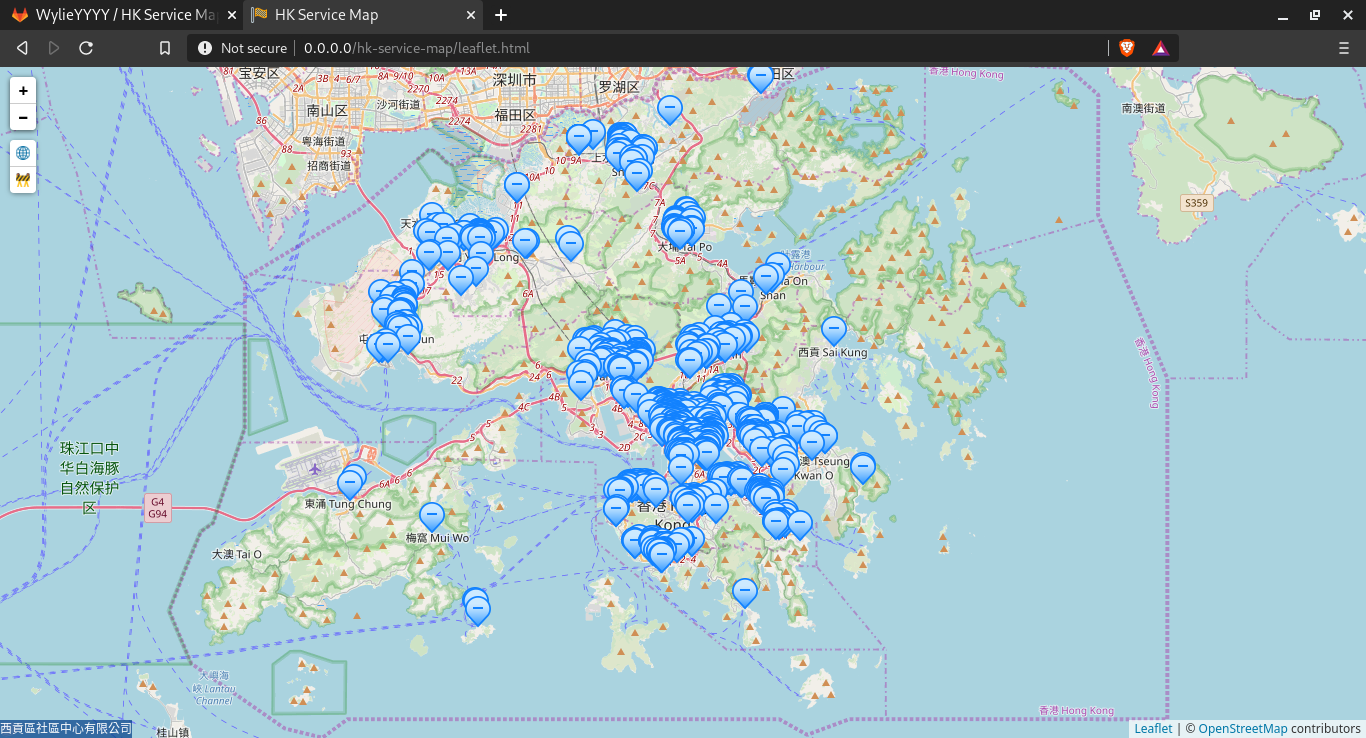
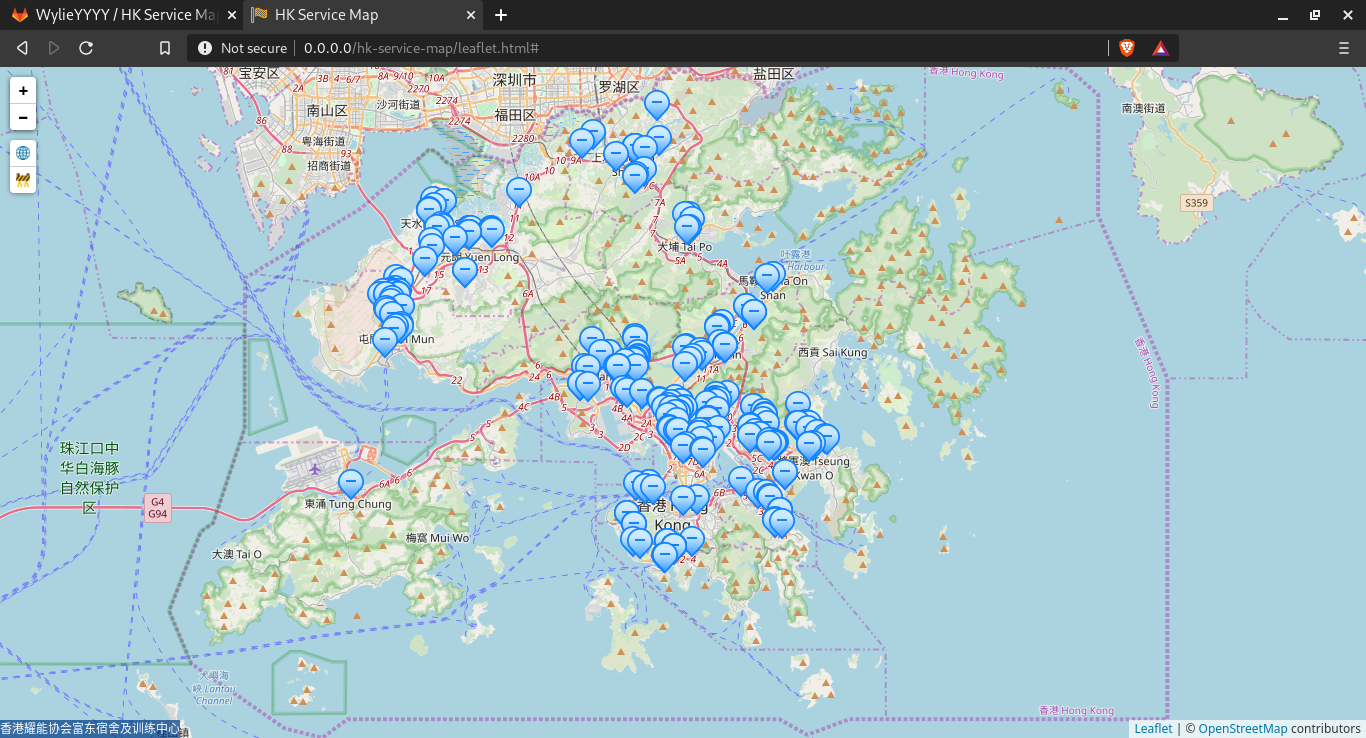
Fixed leaflet.html zoom, added zoom translation, OpenLayers will scale UI, portable will not display status bar

diff --git a/openlayers.html b/openlayers.html
@@ -16,6 +16,11 @@
 	<body>
 		<div id="map" class="map"></div>
 		<pre id="info" class="status bar"/>
+		<div id="zoom_container" class="ol-unselectable ol-control"
+			style="position: absolute; top: .5em; left: .5em">
+			<button id="zoom_in" onclick="zoom_by_delta(1)">+</button>
+			<button id="zoom_out" onclick="zoom_by_delta(-1)">−</button>
+		</div>
 		<div id="lang_unresolved_container" class="ol-unselectable ol-control"
 			style="position: absolute; top: 10%; left: .5em">
 			<button id="lang" title="Change language" style="color: transparent; text-shadow: 0 0 0 white"
@@ -28,7 +33,12 @@
 		<script>
 			"use strict";
 			document.getElementById("map").style.height = window.innerHeight + "px";
-			document.getElementById("unresolved").title = localise["unresolvedList" + lang];
+			var zoom_in = document.getElementById("zoom_in");
+			zoom_in.title = localise["zoomIn" + lang];
+			var zoom_out = document.getElementById("zoom_out");
+			zoom_out.title = localise["zoomOut" + lang];
+			var unresolved = document.getElementById("unresolved");
+			unresolved.title = localise["unresolvedList" + lang];
 			var info = document.getElementById("info");
 			var marker_list = [];
 			var selected = 0;
@@ -40,10 +50,15 @@
 				});
 				marker_list.push(marker);
 			}
+			var lang_unresolved_container = document.getElementById("lang_unresolved_container");
 			var marker_scale = 0.5;
 			if ("ontouchstart" in document.documentElement) {
 				marker_scale = 1;
 				info.style = "font-size: 200%";
+				[zoom_in, zoom_out, document.getElementById("lang"), unresolved].forEach(function(element) {
+					element.style = "width: 2.75em; height: 2.75em; font-size: 300%";
+				});
+				lang_unresolved_container.style.top = "20%";
 			}
 			var marker_style = new ol.style.Style({
 				image: new ol.style.Icon({
@@ -68,7 +83,32 @@
 					return [marker_style];
 				}
 			});
-			var lang_unresolved_container = document.getElementById("lang_unresolved_container");
+			var zoom_animation_duration = 250;
+			var zoom_by_delta = function(delta) {
+				var view = map.getView();
+				if (!view) return;
+				var current_zoom = view.getZoom();
+				if (current_zoom != undefined) {
+					var new_zoom = view.getConstrainedZoom(current_zoom + delta);
+					if (zoom_animation_duration > 0) {
+						if (view.getAnimating()) view.cancelAnimations();
+						view.animate({
+							zoom: new_zoom,
+							duration: zoom_animation_duration,
+							easing: ol.easing.easeOut
+						});
+					}
+					else view.setZoom(new_zoom);
+				}
+			};
+			var zoom_container = document.getElementById("zoom_container");
+			var zoom_control = function() {
+				ol.control.Control.call(this, {
+					element: zoom_container
+				});
+			};
+			zoom_control.prototype = Object.create(ol.control.Control.prototype);
+			zoom_control.prototype.constructor = zoom_control;
 			var lang_unresolved_control = function() {
 				ol.control.Control.call(this, {
 					element: lang_unresolved_container
@@ -78,9 +118,11 @@
 			lang_unresolved_control.prototype.constructor = lang_unresolved_control;
 			var map = new ol.Map({
 				target: "map",
-				controls: ol.control.defaults().extend([
+				controls: [
+					new ol.control.Attribution(),
+					new zoom_control(),
 					new lang_unresolved_control()
-				]),
+				],
 				layers: [
 					new ol.layer.Tile({
 						source: new ol.source.OSM()
@@ -105,10 +147,7 @@
 					}
 					return;
 				}
-				if (selected == 0) {
-					var unit_index = features[0].getProperties()["unit_index"];
-					info.innerText = unitinfo[unit_index][unitinfo[0].indexOf("name" + lang)];
-				}
+				if (selected == 0) display_status(features[0].getProperties()["unit_index"]);
 				info.style.opacity = 1;
 				map.getTargetElement().style.cursor = "pointer";
 			});
@@ -126,7 +165,9 @@
 					info_update(selected, info, marker_scale);
 					info.className += " spaced-dock";
 				}
-				document.getElementById("unresolved").title = localise["unresolvedList" + lang];
+				zoom_in.title = localise["zoomIn" + lang];
+				zoom_out.title = localise["zoomOut" + lang];
+				unresolved.title = localise["unresolvedList" + lang];
 			};
 		</script>
 		<script src="scripts/lang.js"></script>

diff --git a/leaflet.html b/leaflet.html
@@ -36,7 +36,12 @@
 		<script>
 			"use strict";
 			document.getElementById("map").style.height = window.innerHeight + "px";
-			document.getElementById("unresolved").title = localise["unresolvedList" + lang];
+			var zoom_in = document.getElementById("zoom_in");
+			zoom_in.title = localise["zoomIn" + lang];
+			var zoom_out = document.getElementById("zoom_out");
+			zoom_out.title = localise["zoomOut" + lang];
+			var unresolved = document.getElementById("unresolved");
+			unresolved.title = localise["unresolvedList" + lang];
 			var selected = 0;
 			var map = L.map("map", {
 				maxZoom: 18,
@@ -53,13 +58,15 @@
 			var zoom_container = document.getElementById("zoom_container");
 			var zoom_control = L.control.zoom();
 			zoom_control.onAdd = function(map) {
-				document.getElementById("zoom_in").onclick = function(e) {
+				zoom_in.onclick = function(e) {
+					L.DomEvent.disableClickPropagation(this);
 					e.preventDefault();
-					if (map._zoom < map.getMaxZoom()) map.zoomIn(map.options.zoomDelta * (e.shiftKey ? 3 : 1));
+					if (map.getZoom() < map.getMaxZoom()) map.zoomIn(map.options.zoomDelta * (e.shiftKey ? 3 : 1));
 				};
-				document.getElementById("zoom_out").onclick = function(e) {
+				zoom_out.onclick = function(e) {
+					L.DomEvent.disableClickPropagation(this);
 					e.preventDefault();
-					if (map._zoom > map.getMinZoom()) map.zoomOut(map.options.zoomDelta * (e.shiftKey ? 3 : 1));
+					if (map.getZoom() > map.getMinZoom()) map.zoomOut(map.options.zoomDelta * (e.shiftKey ? 3 : 1));
 				};
 				return zoom_container;
 			};
@@ -84,9 +91,9 @@
 			if ("ontouchstart" in document.documentElement) {
 				marker_scale = 1;
 				info.style = "font-size: 200%";
-				["zoom_in", "zoom_out", "lang", "unresolved"].forEach(function(id) {
-					document.getElementById(id).style = "width: 78px; height: 78px; font-size: 300%; line-height: 78px";
-				})
+				[zoom_in, zoom_out, document.getElementById("lang"), unresolved].forEach(function(element) {
+					element.style = "width: 78px; height: 78px; font-size: 300%; line-height: 78px";
+				});
 			}
 			var marker_icon = L.icon({
 				iconUrl: "styles/images/marker.png",
@@ -104,11 +111,7 @@
 				marker.properties = {};
 				marker.properties["unit_index"] = longlat_index + 1;
 				marker.on("mouseover", function(e) {
-					if (selected == 0) {
-						info.className = "status bar";
-						var unit_index = this.properties["unit_index"];
-						info.innerText = unitinfo[unit_index][unitinfo[0].indexOf("name" + lang)];
-					}
+					if (selected == 0) display_status(this.properties["unit_index"]);
 					info.style.opacity = 1;
 				});
 				marker.on("mouseout", function(e) {
@@ -138,7 +141,9 @@
 					info_update(selected, info, marker_scale);
 					info.className += " spaced-dock";
 				}
-				document.getElementById("unresolved").title = localise["unresolvedList" + lang];
+				zoom_in.title = localise["zoomIn" + lang];
+				zoom_out.title = localise["zoomOut" + lang];
+				unresolved.title = localise["unresolvedList" + lang];
 			};
 		</script>
 		<script src="scripts/lang.js"></script>

diff --git a/scripts/info.js b/scripts/info.js
@@ -23,6 +23,16 @@ function info_update(unit_index, info, ui_scale) {
 	info.style.width = window.innerWidth / 2 * ui_scale + "px";
 }
 
+function display_status(unit_index) {
+	if ("ontouchstart" in document.documentElement) {
+		info.style.opacity = 0;
+	} else {
+		info.className = "status bar";
+		info.innerText = unitinfo[unit_index][unitinfo[0].indexOf("name" + lang)];
+		info.style.width = "auto";
+	}
+}
+
 function info_switch(unit_index) {
 	if (selected == 0) {
 		selected = unit_index;
@@ -30,8 +40,6 @@ function info_switch(unit_index) {
 		info.className += " spaced-dock";
 	} else {
 		selected = 0;
-		info.className = "status bar";
-		info.innerText = unitinfo[unit_index][unitinfo[0].indexOf("name" + lang)];
-		info.style.width = "auto";
+		display_status(unit_index);
 	}
 }

diff --git a/scripts/localise.js b/scripts/localise.js
@@ -5,6 +5,12 @@ var locale = {
 	"SChinese":                        "简"
 };
 var localise = {
+	"zoomInEnglish":                   "Zoom in",
+	"zoomInTChinese":                  "放大",
+	"zoomInSChinese":                  "放大",
+	"zoomOutEnglish":                  "Zoom out",
+	"zoomOutTChinese":                 "縮小",
+	"zoomOutSChinese":                 "缩小",
 	"unresolvedListEnglish":           "Unresolved list",
 	"unresolvedListTChinese":          "未定位單位列表",
 	"unresolvedListSChinese":          "未定位单位列表",

diff --git a/README.md b/README.md
@@ -3,7 +3,7 @@ HK Service Map is a map to visualise service units data from XML provided by the
 #### Screenshot
 Map screen including hover status bar in bottom-left with Leaflet.js.  
 ![Example Hover Screenshot](screenshot-hover.png "Example Hover Screenshot")  
-Displaying detailed info with a different locale with OpenLayers, change by clicking the button with globe icon.  
+Displaying detailed info in traditional Chinese with OpenLayers, change language by clicking the button with globe icon.  
 ![Example Info Screenshot](screenshot-info.png "Example Info Screenshot")  
 Page with a list of unresolved address, navigated to by clicking the fence icon under the globe icon in map screen.  
 ![Example Unresolved Screenshot](screenshot-unresolved.png "Example Unresolved Screenshot")  
@@ -38,4 +38,4 @@ Target XML must follow this template for this map to work, `<ANY/>` means two no
 	</serviceUnits>
 </ANY>
 ```
-With `ANY` tag in `serviceUnit`, `scripts/localise.js` must be changed in order to display additional tags' names.
+With `ANY` tag in `serviceUnit`, `scripts/localise.js` must be changed in order to display localised names, if no entry is added to the file, XML tag name will be parsed and displayed.
